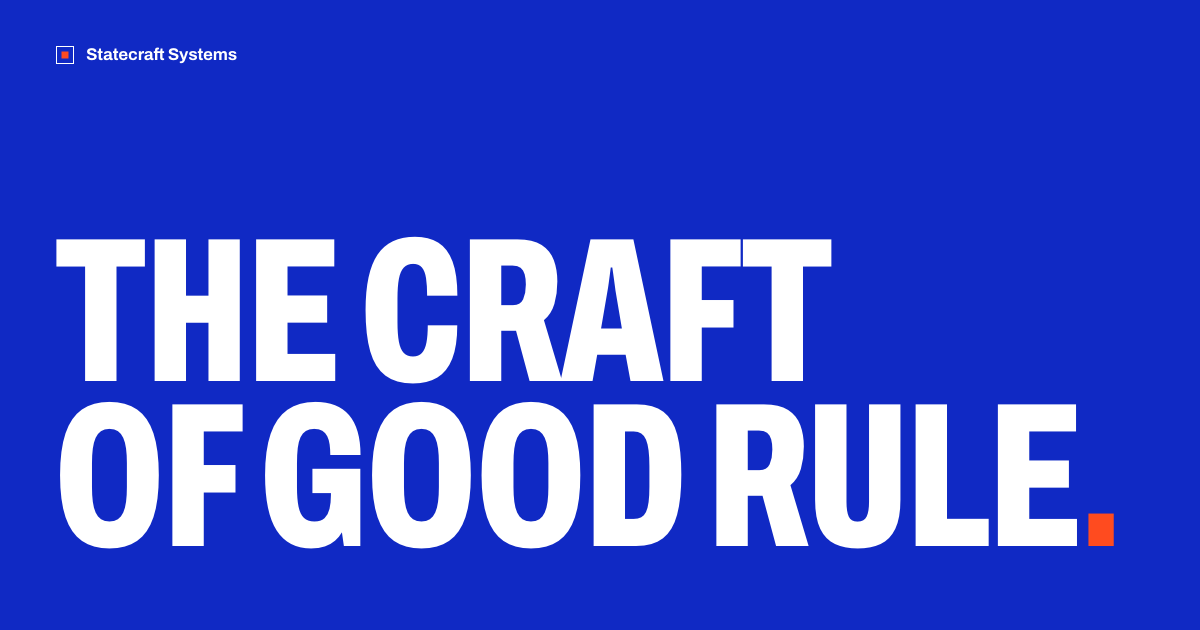
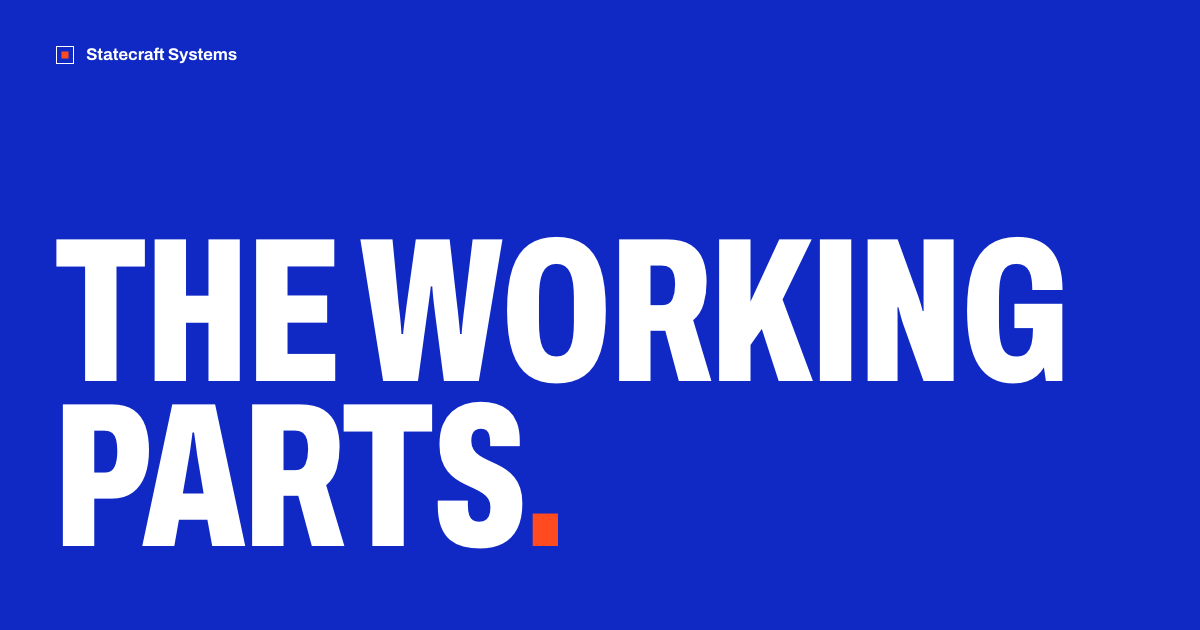
The offering and the practice, kept apart. Home is the offering: 'The working parts.', what you can ask for in four plain rows (a build, care, working sessions, a records review), the proof, how a build runs, one doorway to the practice. New /practice page is the company: 'The craft of good rule.', 

Changed region(s): [[0.0308, 0.3619, 0.9558, 0.8746]]

diff --git a/src/styles/global.css b/src/styles/global.css
@@ -183,6 +183,7 @@ a:hover { color: var(--accent); }
   transition: background-size 280ms var(--ease);
 }
 .nav a:hover { color: inherit; }
+.nav .sep { width: 1px; height: 18px; background: currentColor; opacity: 0.35; }
 .nav a:not(.btn):hover, .nav a[aria-current='page'] { background-size: 100% 2px; }
 
 .tone-field .site-header { color: #fff; }
@@ -300,9 +301,9 @@ a:hover { color: var(--accent); }
 
 /* ——— Scales ——— */
 
-.scales { list-style: none; padding: 0; display: grid; grid-template-columns: repeat(2, minmax(0, 1fr)); gap: var(--col-gap); }
+.scales { list-style: none; padding: 0; display: grid; grid-template-columns: repeat(3, minmax(0, 1fr)); gap: var(--col-gap); }
 .scales li { display: flex; }
-.scales a {
+.scales a, .scales .card {
   flex: 1; display: flex; flex-direction: column; gap: 22px;
   border: 2px solid var(--black); padding: clamp(22px, 2.4vw, 36px);
   transition: background-color 220ms ease, color 220ms ease, border-color 220ms ease;
@@ -348,6 +349,37 @@ a:hover { color: var(--accent); }
   .index .who, .index .status { grid-column: 1 / -1; justify-self: start; text-align: left; }
 }
 .after { margin-top: clamp(32px, 4vw, 56px); display: flex; gap: 20px 32px; flex-wrap: wrap; align-items: center; }
+
+/* ——— The offering (home): what can be asked for, as rows ——— */
+
+.offers { list-style: none; padding: 0; border-top: 2px solid var(--black); }
+.offers li { border-bottom: 1px solid var(--rule-2); }
+.offers a {
+  display: grid; grid-template-columns: repeat(12, minmax(0, 1fr)); column-gap: var(--col-gap); row-gap: 14px; align-items: start;
+  padding: clamp(28px, 3.2vw, 48px) var(--gutter); margin-inline: calc(-1 * var(--gutter));
+  transition: background-color 200ms ease, color 200ms ease;
+}
+.offers .glyph { grid-column: 1 / span 1; grid-row: 1 / span 2; width: clamp(28px, 3vw, 44px); aspect-ratio: 1; margin-top: 4px; }
+.offers .glyph svg { width: 100%; height: 100%; display: block; }
+.offers .glyph .b { fill: var(--blue); transition: fill 200ms ease; }
+.offers h3 { grid-column: 2 / span 4; grid-row: 1 / span 2; font-stretch: 62%; font-weight: 800; text-transform: uppercase; font-size: var(--fs-m); line-height: 0.86; letter-spacing: -0.012em; }
+.offers p { grid-column: 6 / span 5; grid-row: 1 / span 2; font-size: clamp(1.0625rem, 1.3vw, 1.25rem); line-height: 1.45; color: var(--ink-2); transition: color 200ms ease; }
+.offers .fact { grid-column: 11 / span 2; justify-self: end; text-align: right; font-family: var(--mono); font-weight: 400; font-size: 0.75rem; line-height: 1.5; letter-spacing: 0.06em; text-transform: uppercase; color: var(--muted); transition: color 200ms ease; }
+.offers .go { grid-column: 11 / span 2; justify-self: end; align-self: end; text-align: right; color: var(--blue); transition: color 200ms ease; }
+.offers a:hover, .offers a:focus-visible { background: var(--blue); color: #fff; }
+.offers a:hover p, .offers a:hover .fact, .offers a:hover .go,
+.offers a:focus-visible p, .offers a:focus-visible .fact, .offers a:focus-visible .go { color: #fff; }
+.offers a:hover .glyph .b, .offers a:focus-visible .glyph .b { fill: #fff; }
+@media (max-width: 960px) {
+  .offers .glyph { grid-row: auto; }
+  .offers h3 { grid-column: 2 / -1; grid-row: auto; padding-left: 8px; }
+  .offers p { grid-column: 1 / -1; grid-row: auto; }
+  .offers .fact { grid-column: 1 / span 6; justify-self: start; text-align: left; align-self: center; }
+  .offers .go { grid-column: 7 / -1; }
+}
+@media (max-width: 560px) {
+  .offers .fact, .offers .go { grid-column: 1 / -1; justify-self: start; text-align: left; }
+}
 
 /* ——— How a build runs (home) ——— */
 
@@ -522,10 +554,11 @@ a:hover { color: var(--accent); }
 .foot-say { grid-column: 1 / span 6; font-size: clamp(1.0625rem, 1.3vw, 1.25rem); line-height: 1.45; max-width: 36rem; }
 .foot-say a { border-bottom: 2px solid var(--signal); }
 .foot nav { grid-column: 8 / -1; }
-.foot ul { list-style: none; padding: 0; columns: 2; column-gap: var(--col-gap); }
-.foot li { break-inside: avoid; padding-block: 5px; }
+.foot nav { display: grid; grid-template-columns: repeat(3, minmax(0, auto)); column-gap: var(--col-gap); row-gap: 28px; align-items: start; }
+.foot ul { list-style: none; padding: 0; }
+.foot li { padding-block: 5px; }
 .foot li a { font-weight: 500; }
-.foot li:last-child { column-span: all; }
+@media (max-width: 560px) { .foot nav { grid-template-columns: 1fr 1fr; } }
 .wordmark { font-size: clamp(2.5rem, 11.9vw, 13rem); line-height: 0.76; white-space: nowrap; color: var(--on-ink); text-align: center; margin-bottom: -0.035em; user-select: none; }
 @media (max-width: 860px) {
   .foot-say, .foot nav { grid-column: 1 / -1; }

diff --git a/src/pages/llms.txt.ts b/src/pages/llms.txt.ts
@@ -18,8 +18,8 @@ Last updated: ${REVISED}
 
 - What it does: designs and builds intake, booking, enquiries and the systems behind them, with the people who run the place. Each version is reviewed on the real page, and the result is built to keep working after we step back.
 - How a build runs: one conversation with the person who does the work; a working version at a real address, built in rounds; a launch written down so that someone else could carry it; then the client runs it, or Statecraft Systems keeps it running. A small site takes one to three weeks, end to end.
-- Two ways to work: for an institution (its working parts, built in rounds, then run by the client or kept running by Statecraft Systems); for a person (working sessions for founders and their teams, building real tools on their own devices and workflows).
-- The ideas behind the work are kept apart from the offering, on two pages. Thesis, in one line: good rule is scarce, does not maintain itself, and endures only through structures built to carry it. Disciplines: structural dynamics (Robert Fritz), natural law (Curt Doolittle), currency design (Arthur Brock) and operative traditions (Miguel Angel Fernandez).
+- What you can ask for: a build (a working part of an institution, such as intake, booking or enquiries); care (a monthly plan that keeps it online, secure and working after launch); working sessions (for a founder, an executive or a team, building real tools on their own devices and workflows); a records review (deciding whether to license operating records for AI training).
+- The company is described apart from the offering, under Practice. Statecraft is the craft of good rule, practised at three scales: the person, the institution and the network. Thesis, in one line: good rule is scarce, does not maintain itself, and endures only through structures built to carry it. Disciplines: structural dynamics (Robert Fritz), natural law (Curt Doolittle), currency design (Arthur Brock) and operative traditions (Miguel Angel Fernandez).
 - What clients keep: their domains, content, data and accounts, set up under an address they control, whether or not Statecraft Systems stays involved.
 - Recent work (clients are described, not named): direct booking for a family-owned vacation rental; clinical intake for a cash-pay telemedicine practice; trade enquiries for a regional jobsite-supply wholesaler; a one-page airline-miles donation ask for a child-recovery nonprofit.
 - Operating records: helps companies decide whether to license their operating records to buyers that license data for AI training, with consent, an inventory and clear boundaries.

diff --git a/src/data/site.ts b/src/data/site.ts
@@ -34,8 +34,10 @@ export const publicPages: PublicPage[] = [
     summary: 'How a Statecraft Systems build runs: a working version first, review on the real page, and a launch someone else could carry.' },
   { path: '/operating-records/', title: 'Operating records', section: 'Main', updated: QUICK_ANSWER_DATE,
     summary: 'Decide whether to license your operating records for AI training, with an inventory, clear boundaries and redaction before delivery.' },
+  { path: '/practice/', title: 'Practice', section: 'Main', updated: REVISED,
+    summary: 'The company behind the work. Statecraft is the craft of good rule: what the name means, the three scales the practice works at (person, institution, network), and who does the work.' },
   { path: '/thesis/', title: 'Thesis', section: 'Main', updated: REVISED,
-    summary: 'What the name means, and ten propositions on good rule: it is scarce, it does not maintain itself, and it endures only through structures built to carry it.' },
+    summary: 'Ten propositions on good rule: it is scarce, it does not maintain itself, and it endures only through structures built to carry it.' },
   { path: '/disciplines/', title: 'Disciplines', section: 'Main', updated: REVISED,
     summary: 'The four disciplines the work draws on, each credited to its source: structural dynamics (Robert Fritz), natural law (Curt Doolittle), currency design (Arthur Brock) and operative traditions (Miguel Angel Fernandez).' },
   { path: '/contact/', title: 'Contact', section: 'Main', updated: REVISED,

diff --git a/src/data/work.ts b/src/data/work.ts
@@ -53,7 +53,7 @@ export const plates: Plate[] = [
   },
   {
     slug: 'clinical-intake',
-    figure: 'A patient, then an instrument that gathers, then the physician who decides.',
+    figure: 'A patient, then a fixed protocol that gathers, then the physician who decides.',
     numeral: 'II',
     title: 'Clinical intake',
     principle: 'The machine gathers. The physician decides.',

diff --git a/src/content/brand.md b/src/content/brand.md
@@ -6,11 +6,13 @@ How the site speaks and looks. Not published. If the site and this file disagree
 
 The site keeps what is sold apart from what is believed.
 
-**The offering.** Home, Work, each build, Method, Contact, Operating records, Support, Terms, Privacy. These say what Statecraft Systems builds, for whom, how a build runs and how to start. A competent reader should know within one screen whether to write. No philosophy is needed to follow them.
+A visitor arrives with one of two questions: "what can you do for me?" or "who are you, and why does this exist?". Each is answered in its own place, and the first never depends on the second.
 
-**The ideas.** Thesis and Disciplines. These say why the practice exists and where its reasoning comes from. They are for the reader who wants to go further, and they sell nothing.
+**The offering.** Home, Work, each build, Method, Contact, Operating records, Support, Terms, Privacy. These say what can be asked for, in plain nouns (a build, care, working sessions, a records review), with the proof and how a build runs. A competent reader should know within one screen whether to write. No philosophy is needed to follow them. The home headline is "The working parts."
 
-The rule: a page belongs to one kind. The home page carries one doorway to the ideas. Each ideas page ends on the same invitation as every other page. The headline "The craft of good rule" is the meaning of the name and is the only line of the thesis on the home page.
+**The practice.** Practice, Thesis, Disciplines. These are the company: what the name means, why it exists, the three scales it works at (person, institution, network), where its reasoning comes from, and who does the work. They sell nothing. "The craft of good rule" is the headline of the Practice page and appears nowhere on the offering pages.
+
+The rule: a page belongs to one kind. The navigation shows the two halves with a rule between them. The home page carries one doorway to the practice. The Practice page carries one doorway back to the offering. Every page ends on the same invitation.
 
 ## Voice
 
@@ -48,7 +50,7 @@ The full reasoning is in `DESIGN-AMBITIOUS.md`. The rules:
 - **One signal.** Vermilion `#ff4b1f`, only on blue or black, only where something is at stake. On bone the accent is blue. The header mark is the one exception.
 - **Two voices.** Archivo in heavy condensed capitals for statements, Archivo regular for reading. Berkeley Mono only in the navigation and on recorded facts (status, a facts ledger, a source, a diagram label).
 - **Three sizes of statement.** One for the first and last screen, one for section and page headings, one for things inside a section.
-- **Three shapes.** A circle is a person, a square is an institution or the thing that holds, a triangle is an instrument. Rules are two pixels.
+- **Three shapes.** A circle is a person, a square is an institution or the thing that holds, a triangle is a network. Rules are two pixels. Each thing on offer carries the shape of the scale it works at.
 - **Actions** speak in the statement voice and carry the same drawn arrow: a block, an outline, or an underlined line. What you point at turns blue; on blue it turns black.
 - **Nothing that only describes the page.** No eyebrows, section numbers, revision stamps or notes about what follows.
 - **Motion** is CSS only, slight, and off under reduced motion. The site works without JavaScript.

diff --git a/DESIGN-AMBITIOUS.md b/DESIGN-AMBITIOUS.md
@@ -137,3 +137,15 @@ The home page had been carrying both what is sold and what is believed, and a vi
 - The headline "The craft of good rule" stays on the home page as the meaning of the name. The sentence under it is now the offering.
 - Black is now the one band per page that shows a process or a tension.
 - `src/content/brand.md` was rewritten to state this split and the Field system.
+
+## The offering and the practice
+
+Separating "ideas" from "offering" was not enough: the home page still opened on the company's reason for existing and organised the offering by a concept (scales). The perspective now:
+
+A visitor arrives with one of two questions, "what can you do for me?" or "who are you, and why does this exist?". Each gets its own place and its own register, and the first never depends on the second.
+
+- **The offering** is the home page. Headline: "The working parts." Then "What you can ask for." as four rows in plain nouns (a build, care, working sessions, a records review), each with what you get, one recorded fact and one action. Then the proof, how a build runs, one doorway to the practice, the invitation.
+- **The practice** is a new page at `/practice`. It opens on the blue field with "The craft of good rule." Then the name (State, Craft, Systems), "One craft, three scales." (person, institution, network), the thinking (thesis, disciplines), and who does the work.
+- **Navigation** shows the halves: Work, Method, a rule, Practice. The footer has three groups: offering, practice, details.
+- **Shapes.** The triangle now means a network. The clinical-intake figure was redrawn with a square for the protocol.
+- The method page headline is now "How a build runs."

diff --git a/README.md b/README.md
@@ -41,12 +41,13 @@ Serves the production build locally for review.
 
 | Path | File | Description |
 |------|------|-------------|
-| `/` | `src/pages/index.astro` | Home (the offering only): hero, two ways to work, proof, how a build runs, one doorway to the ideas, contact |
+| `/` | `src/pages/index.astro` | Home (the offering only): hero, what you can ask for, proof, how a build runs, one doorway to the practice, contact |
 | `/work`, `/work/:slug` | `src/pages/work/` | Plates (anonymized client work) from `src/data/work.ts` |
 | `/method` | `src/pages/method.astro` | How a build runs |
 | `/instruments` | redirect in `astro.config.mjs` | Removed; leads to `/` |
 | `/werk` | `src/pages/werk.astro` | werk. Not linked from the site or listed in llms.txt, feed or sitemap; kept only because the werk repo links to it |
-| `/thesis` | `src/pages/thesis/index.astro` | The name, then ten propositions. Names no project or programme |
+| `/practice` | `src/pages/practice.astro` | The company: the craft of good rule, the name, three scales (person, institution, network), who |
+| `/thesis` | `src/pages/thesis/index.astro` | Ten propositions. Names no project or programme |
 | `/disciplines` | `src/pages/disciplines.astro` | Four disciplines, each credited and linked to its source, with the advance-or-oscillate figure |
 | `/thesis/full` | redirect in `astro.config.mjs` | Removed; leads to `/thesis` |
 | `/contact` | `src/pages/contact.astro` | Contact |
